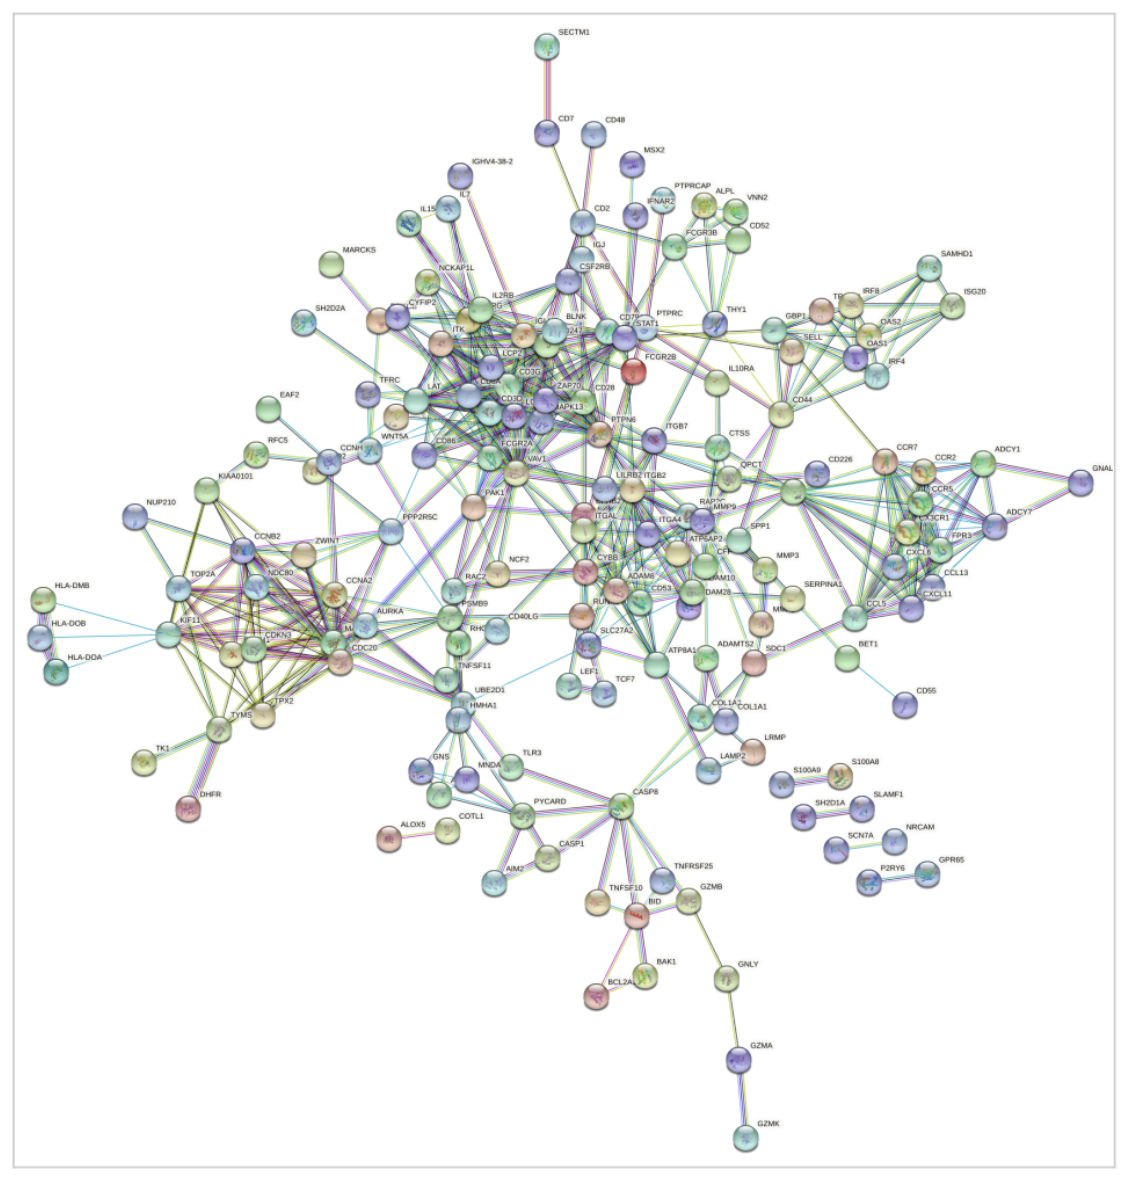
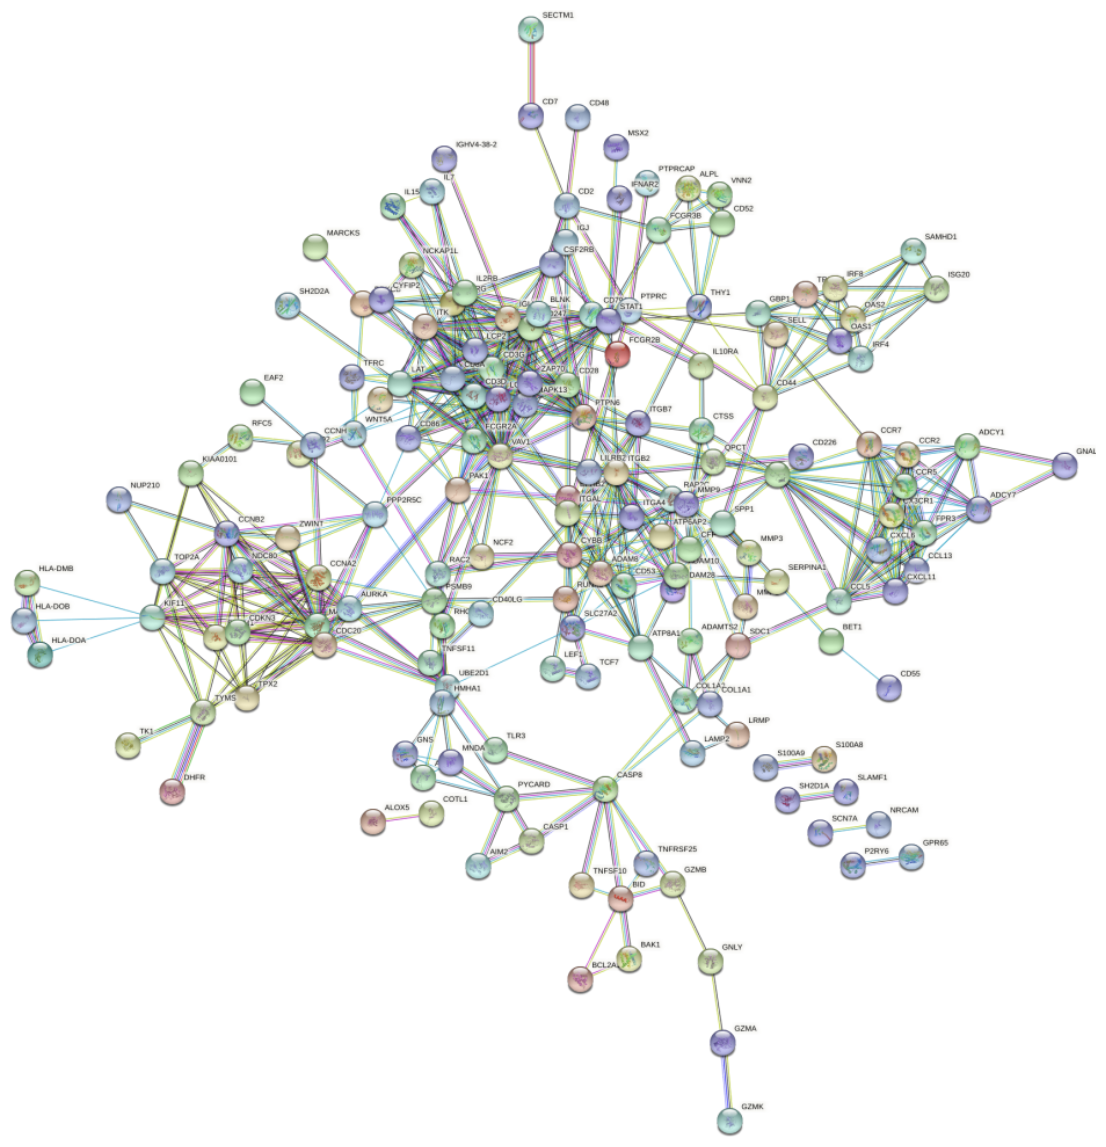
Skills as two-column bullets, no em dashes, cleaner network thumbnail
Skills render as two-column bullet lists instead of pill chips,
collapsing to one column on narrow screens.

Replaces every em dash with a comma, colon, or sentence break.

Crops the framing border and surrounding whitespace out of the protein
interaction network thumbnail, so the figure itself fills the image.

Changed region(s): [[0.0, 0.0, 1.0, 1.0], [0.7685, 0.5798, 0.83, 0.6103]]

diff --git a/_sass/_custom.scss b/_sass/_custom.scss
@@ -532,3 +532,25 @@ details.about-collapsible {
     }
   }
 }
+
+// ── Skills: two-column bullet lists ──
+.skills-list {
+  list-style: disc;
+  columns: 2;
+  column-gap: 2.5rem;
+  padding-left: 1.2rem;
+  margin: 0 0 1.1rem;
+
+  li {
+    margin-bottom: 0.28rem;
+    font-size: 0.96rem;
+    line-height: 1.5;
+    break-inside: avoid;
+  }
+}
+
+@media (max-width: 600px) {
+  .skills-list {
+    columns: 1;
+  }
+}

diff --git a/_pages/about.md b/_pages/about.md
@@ -49,7 +49,7 @@ You can email me at [platawa@mit.edu](mailto:platawa@mit.edu)!
 
 <div class="about-leadership-item">
   <div class="item-title">In Silico Perturbation Prediction Modeling using Single Cell Foundation Models</div>
-  <p class="item-note">2025 · Eli Lilly Advanced Intelligence — Engineering & Biology Research · Presentation & Talk</p>
+  <p class="item-note">2025 · Eli Lilly Advanced Intelligence, Engineering & Biology Research · Presentation & Talk</p>
   <div class="item-links"></div>
 </div>
 
@@ -141,7 +141,7 @@ You can email me at [platawa@mit.edu](mailto:platawa@mit.edu)!
 <div class="about-award-item">
   <div class="item-title">MIT Eric & Wendy Schmidt Center Funded Research & Innovation Scholar</div>
   <p class="item-note">Oct 2024</p>
-  <p class="item-desc">MIT EECS SuperUROP Scholar — selected as 1 of 8 computational biology scholars (Feng Zhang Lab).</p>
+  <p class="item-desc">MIT EECS SuperUROP Scholar, selected as 1 of 8 computational biology scholars (Feng Zhang Lab).</p>
   <div class="item-links"></div>
 </div>
 
@@ -159,7 +159,7 @@ You can email me at [platawa@mit.edu](mailto:platawa@mit.edu)!
 <h3 class="about-awards-year">2018–Present</h3>
 
 <div class="about-award-item">
-  <div class="item-title">NCWIT Award for Aspirations in Computing — 3x National Awardee (top 9.5% in US), Impact Award</div>
+  <div class="item-title">NCWIT Award for Aspirations in Computing: 3x National Awardee (top 9.5% in US), Impact Award</div>
   <p class="item-note">Jan 2023</p>
   <ul class="item-bullets">
     <li>MIT Campus Representative: led 4+ colleges to organize NCWIT AiC Boston-area receptions with 100+ attendees from 9 colleges & 11 high schools.</li>
@@ -191,13 +191,13 @@ You can email me at [platawa@mit.edu](mailto:platawa@mit.edu)!
 </div>
 
 <div class="about-award-item">
-  <div class="item-title">Texas Science & Engineering Fair (TXSEF) — Regeneron Biomedical Science Award</div>
+  <div class="item-title">Texas Science & Engineering Fair (TXSEF): Regeneron Biomedical Science Award</div>
   <p class="item-note">2022</p>
   <div class="item-links"></div>
 </div>
 
 <div class="about-award-item">
-  <div class="item-title">Austin Energy Regional Science Fair (AERSF) — 1st in Cellular & Molecular Biology, Best of Fair</div>
+  <div class="item-title">Austin Energy Regional Science Fair (AERSF): 1st in Cellular & Molecular Biology, Best of Fair</div>
   <p class="item-note">2022</p>
   <p class="item-desc">Ranked 1st in the Cellular & Molecular Biology category (advancing to TXSEF), selected as a Best of Fair project (advancing to ISEF 2022), and received the Austin Energy STEM scholarship.</p>
   <div class="item-links"></div>
@@ -243,7 +243,7 @@ You can email me at [platawa@mit.edu](mailto:platawa@mit.edu)!
 </div>
 
 <div class="about-award-item">
-  <div class="item-title">AERSF & TXSEF — 2nd in Cellular & Molecular Biology</div>
+  <div class="item-title">AERSF & TXSEF: 2nd in Cellular & Molecular Biology</div>
   <p class="item-note">2021</p>
   <p class="item-desc">Ranked 2nd in the Cellular & Molecular Biology category at both fairs; received a $2k research grant and an invitation to the Texas Governor's Science & Engineering Champions Academy to research solid-state nanopore sequencing at the SMU BAST Lab.</p>
   <div class="item-links"></div>
@@ -259,7 +259,7 @@ You can email me at [platawa@mit.edu](mailto:platawa@mit.edu)!
 <h3 class="about-awards-year">2020</h3>
 
 <div class="about-award-item">
-  <div class="item-title">AERSF Superintendent Award — Best Project in District</div>
+  <div class="item-title">AERSF Superintendent Award: Best Project in District</div>
   <p class="item-note">2020</p>
   <p class="item-desc">For "Analysis of the Vaping Pandemic," focusing on schools in Austin, Texas.</p>
   <div class="item-links"></div>
@@ -277,7 +277,7 @@ You can email me at [platawa@mit.edu](mailto:platawa@mit.edu)!
 <div class="about-leadership-item has-logo">
   <img class="item-logo" src="{{ '/assets/img/logos/mit.svg' | relative_url }}" alt="MIT logo" loading="lazy">
   <div class="item-body">
-  <div class="item-title">Massachusetts Institute of Technology — M.Eng., Computer Science and Molecular Biology</div>
+  <div class="item-title">Massachusetts Institute of Technology, M.Eng. in Computer Science and Molecular Biology</div>
   <p class="item-note">Jun 2025 – May 2026</p>
   <div class="item-links"></div>
   </div>
@@ -286,7 +286,7 @@ You can email me at [platawa@mit.edu](mailto:platawa@mit.edu)!
 <div class="about-leadership-item has-logo">
   <img class="item-logo" src="{{ '/assets/img/logos/mit.svg' | relative_url }}" alt="MIT logo" loading="lazy">
   <div class="item-body">
-  <div class="item-title">Massachusetts Institute of Technology — B.S., Computer Science & Molecular Biology, Minor in Economics</div>
+  <div class="item-title">Massachusetts Institute of Technology, B.S. in Computer Science & Molecular Biology, Minor in Economics</div>
   <p class="item-note">2022 – 2026</p>
   <ul class="item-bullets">
     <li>Activities and societies: MIT UROP, MISTI Denmark, Biotechnology Group, NEET Living Machines Certificate Program, Sandbox Innovation Fund, Undergraduate Association, Laureates and Leaders, Associate Advisor, MIT EECS Committee for Community Engagement, MIT School of Engineering Undergraduate Student Advisory Group, South Asian Association of Students.</li>
@@ -306,7 +306,7 @@ You can email me at [platawa@mit.edu](mailto:platawa@mit.edu)!
 </div>
 
 <div class="about-leadership-item">
-  <div class="item-title">Liberal Arts & Science Academy — High School Diploma</div>
+  <div class="item-title">Liberal Arts & Science Academy, High School Diploma</div>
   <p class="item-note">2018 – 2022</p>
   <p class="item-desc">Activities and societies: LASA Science Fair Club Captain, Mu Alpha Theta Math Honor Society VP, Science Olympiad, Symphony Orchestra.</p>
   <div class="item-links"></div>
@@ -517,41 +517,41 @@ You can email me at [platawa@mit.edu](mailto:platawa@mit.edu)!
 <div class="section-body">
 <div class="about-hobbies">
   <p>I enjoy pursuing adventures, from visiting new places to hiking and biking locally in Cambridge and Austin. I played the viola for 8 years, painted for 5 years, previously tried rowing, and am currently really interested in photography and videography.</p>
-  <p>I am passionate about science communication and blogging — here is my <a href="https://paridhi-latawa.medium.com/">Medium Blog</a>. In my free time, you'll find me solving puzzles or traveling!</p>
+  <p>I am passionate about science communication and blogging. Here is my <a href="https://paridhi-latawa.medium.com/">Medium Blog</a>. In my free time, you'll find me solving puzzles or traveling!</p>
   <p>Languages: advanced in English, Hindi, & Punjabi; beginner in Spanish.</p>
 </div>
 
 <h3 class="about-awards-year">Computational Skills</h3>
 
-<div class="about-courses">
-  <span class="course-chip">Machine Learning</span>
-  <span class="course-chip">LLMs</span>
-  <span class="course-chip">Python</span>
-  <span class="course-chip">PyTorch</span>
-  <span class="course-chip">Pandas</span>
-  <span class="course-chip">Biopython</span>
-  <span class="course-chip">R Studio</span>
-  <span class="course-chip">Linux</span>
-  <span class="course-chip">HPC</span>
-  <span class="course-chip">ImageJ/Fiji</span>
-  <span class="course-chip">Imaging</span>
-</div>
+<ul class="skills-list">
+  <li>Machine Learning</li>
+  <li>LLMs</li>
+  <li>Python</li>
+  <li>PyTorch</li>
+  <li>Pandas</li>
+  <li>Biopython</li>
+  <li>R Studio</li>
+  <li>Linux</li>
+  <li>HPC</li>
+  <li>ImageJ/Fiji</li>
+  <li>Imaging</li>
+</ul>
 
 <h3 class="about-awards-year">Wet Lab Skills</h3>
 
-<div class="about-courses">
-  <span class="course-chip">PCR</span>
-  <span class="course-chip">Gel Electrophoresis</span>
-  <span class="course-chip">Western Blot</span>
-  <span class="course-chip">IF</span>
-  <span class="course-chip">FISH</span>
-  <span class="course-chip">Protein Purification</span>
-  <span class="course-chip">Transformation</span>
-  <span class="course-chip">Gibson Assembly</span>
-  <span class="course-chip">Fluorescence Anisotropy/Polarization</span>
-  <span class="course-chip">Fluorescence Microscopy</span>
-  <span class="course-chip">Biotech Lab Technician Certificate (ACC)</span>
-</div>
+<ul class="skills-list">
+  <li>PCR</li>
+  <li>Gel Electrophoresis</li>
+  <li>Western Blot</li>
+  <li>IF</li>
+  <li>FISH</li>
+  <li>Protein Purification</li>
+  <li>Transformation</li>
+  <li>Gibson Assembly</li>
+  <li>Fluorescence Anisotropy/Polarization</li>
+  <li>Fluorescence Microscopy</li>
+  <li>Biotech Lab Technician Certificate (ACC)</li>
+</ul>
 </div>
 
 </details>
